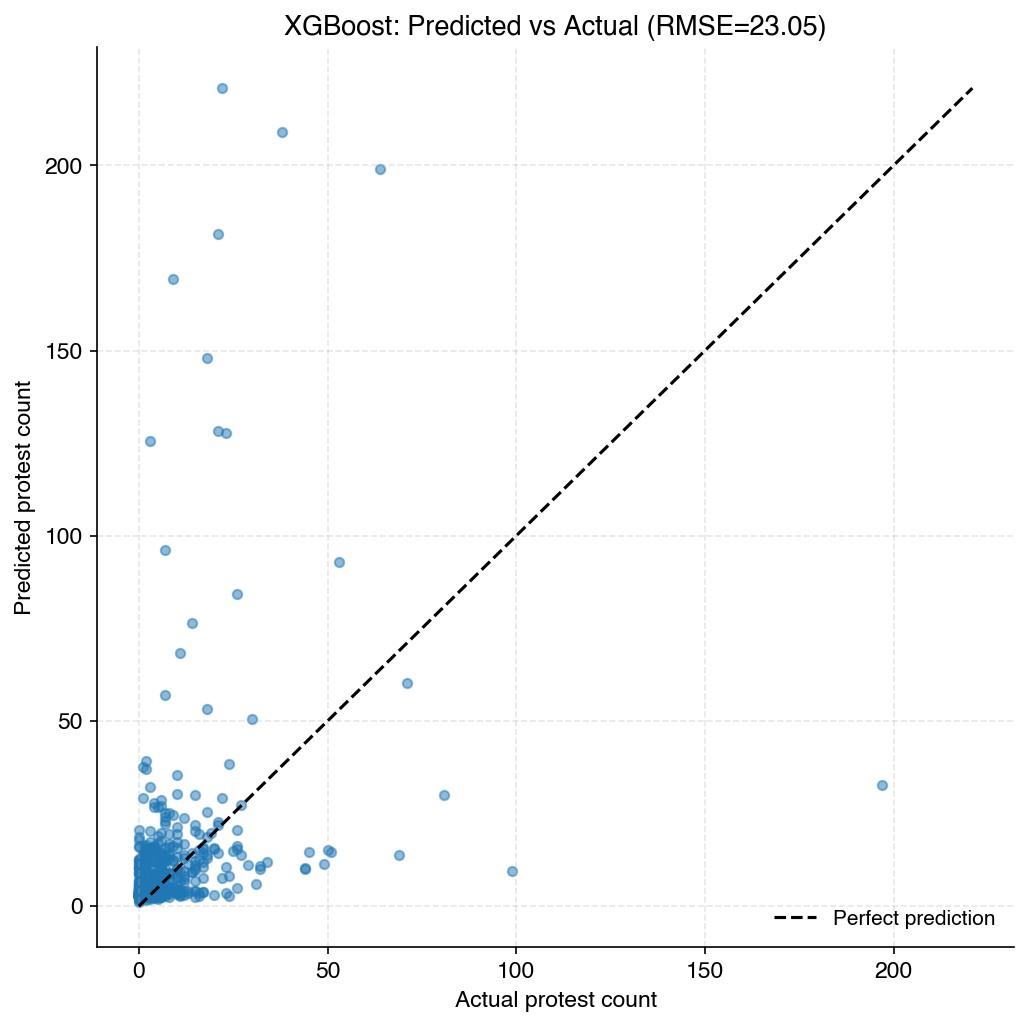
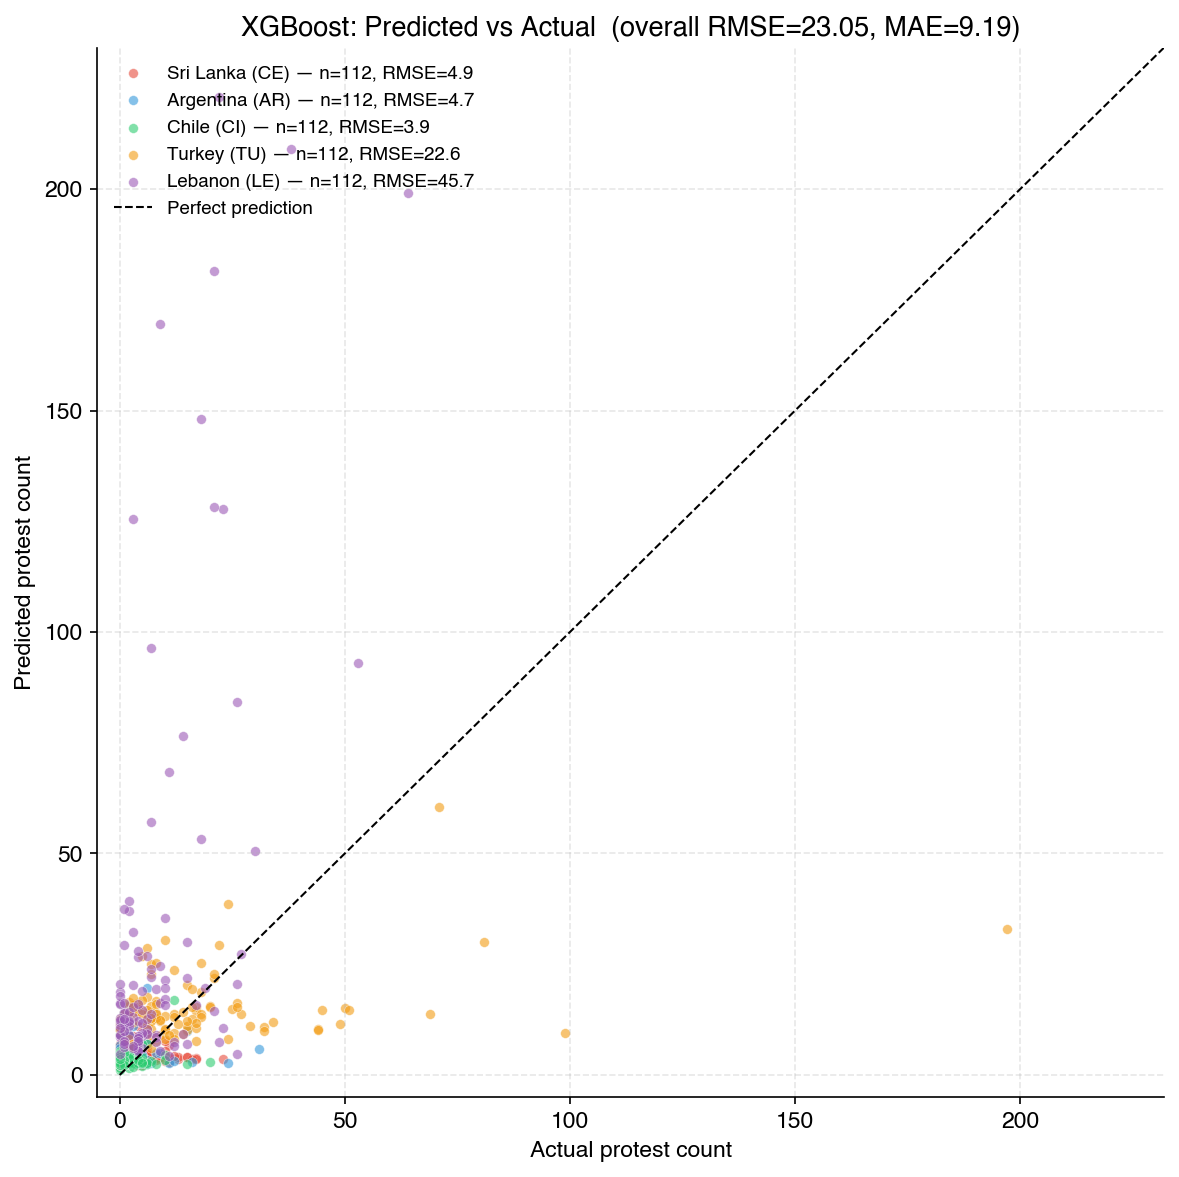
feat: add per-country color coding and detailed annotations to diagnostic figures

diff --git a/scripts/15_make_ml_diagnostic_figures.py b/scripts/15_make_ml_diagnostic_figures.py
@@ -1,15 +1,23 @@
 """Generate Fig 5 (predicted vs actual scatter) and Fig 6 (residual diagnostics).
 
+Both figures are colored by country using COUNTRY_COLORS so the Lebanon
+over-prediction and Turkey under-prediction patterns are visible at a glance.
+
 Run: python scripts/15_make_ml_diagnostic_figures.py
 Output: figures/fig5_pred_vs_actual.png, figures/fig6_residual_plot.png
 """
 from __future__ import annotations
 
 import matplotlib.pyplot as plt
+import numpy as np
 import pandas as pd
 
-from src.constants import OUTPUT_DIR
+from src.constants import COUNTRY_COLORS, COUNTRY_NAMES, FIPS_COUNTRIES, OUTPUT_DIR
 from src.viz_template import apply_style, save_fig
+
+
+def _country_legend_label(code: str, n: int, rmse: float) -> str:
+    return f"{COUNTRY_NAMES[code]} ({code}) — n={n}, RMSE={rmse:.1f}"
 
 
 def main() -> None:
@@ -17,32 +25,94 @@ def main() -> None:
     df = pd.read_parquet(OUTPUT_DIR / "ml_results" / "xgboost_predictions.parquet")
     metrics = pd.read_parquet(OUTPUT_DIR / "ml_results" / "xgboost_metrics.parquet").iloc[0]
 
-    # Fig 5
-    fig, ax = plt.subplots(figsize=(7, 7))
-    ax.scatter(df['actual'], df['predicted'], alpha=0.5, s=20)
-    lim = max(df['actual'].max(), df['predicted'].max())
-    ax.plot([0, lim], [0, lim], 'k--', label='Perfect prediction')
+    # Per-country RMSE for legend annotations
+    per_country: dict[str, tuple[int, float]] = {}
+    for code, g in df.groupby('country'):
+        rmse_c = float(np.sqrt(((g['actual'] - g['predicted']) ** 2).mean()))
+        per_country[code] = (len(g), rmse_c)
+
+    # ---------- Fig 5: Predicted vs Actual, colored by country ----------
+    fig, ax = plt.subplots(figsize=(8, 8))
+    for code in FIPS_COUNTRIES:
+        sub = df[df['country'] == code]
+        if sub.empty:
+            continue
+        n, rmse_c = per_country[code]
+        ax.scatter(
+            sub['actual'],
+            sub['predicted'],
+            color=COUNTRY_COLORS[code],
+            alpha=0.6,
+            s=22,
+            edgecolor='white',
+            linewidth=0.3,
+            label=_country_legend_label(code, n, rmse_c),
+        )
+
+    lim = float(max(df['actual'].max(), df['predicted'].max())) * 1.05
+    ax.plot([0, lim], [0, lim], 'k--', linewidth=1.0, label='Perfect prediction')
+    ax.set_xlim(-5, lim)
+    ax.set_ylim(-5, lim)
     ax.set_xlabel('Actual protest count')
     ax.set_ylabel('Predicted protest count')
-    ax.set_title(f'XGBoost: Predicted vs Actual (RMSE={metrics["rmse"]:.2f})')
-    ax.legend()
+    ax.set_title(
+        f'XGBoost: Predicted vs Actual  (overall RMSE={metrics["rmse"]:.2f}, '
+        f'MAE={metrics["mae"]:.2f})'
+    )
+    ax.legend(loc='upper left', fontsize=9)
     plt.tight_layout()
     save_fig(fig, 'fig5_pred_vs_actual')
     plt.close(fig)
 
-    # Fig 6
-    residuals = df['actual'].values - df['predicted'].values
-    fig, axes = plt.subplots(1, 2, figsize=(14, 5))
-    axes[0].scatter(df['predicted'], residuals, alpha=0.5, s=20)
-    axes[0].axhline(0, color='k', linestyle='--')
-    axes[0].set_xlabel('Predicted')
-    axes[0].set_ylabel('Residual (actual - predicted)')
-    axes[0].set_title('Residuals vs Predicted')
+    # ---------- Fig 6: Residual diagnostics, colored by country ----------
+    df = df.copy()
+    df['residual'] = df['actual'] - df['predicted']
 
-    axes[1].hist(residuals, bins=30, edgecolor='black')
+    fig, axes = plt.subplots(1, 2, figsize=(15, 6))
+
+    # Left: residuals vs predicted, colored by country
+    for code in FIPS_COUNTRIES:
+        sub = df[df['country'] == code]
+        if sub.empty:
+            continue
+        axes[0].scatter(
+            sub['predicted'],
+            sub['residual'],
+            color=COUNTRY_COLORS[code],
+            alpha=0.6,
+            s=22,
+            edgecolor='white',
+            linewidth=0.3,
+            label=f"{COUNTRY_NAMES[code]} ({code})",
+        )
+    axes[0].axhline(0, color='k', linestyle='--', linewidth=1.0)
+    axes[0].set_xlabel('Predicted protest count')
+    axes[0].set_ylabel('Residual (actual - predicted)')
+    axes[0].set_title('Residuals vs Predicted (by country)')
+    axes[0].legend(loc='lower left', fontsize=9)
+
+    # Right: stacked histogram of residuals per country
+    bins = np.linspace(df['residual'].min(), df['residual'].max(), 35)
+    residual_groups = [
+        df.loc[df['country'] == code, 'residual'].values for code in FIPS_COUNTRIES
+    ]
+    colors = [COUNTRY_COLORS[code] for code in FIPS_COUNTRIES]
+    labels = [f"{COUNTRY_NAMES[code]} ({code})" for code in FIPS_COUNTRIES]
+    axes[1].hist(
+        residual_groups,
+        bins=bins,
+        stacked=True,
+        color=colors,
+        label=labels,
+        edgecolor='white',
+        linewidth=0.3,
+    )
+    axes[1].axvline(0, color='k', linestyle='--', linewidth=1.0)
     axes[1].set_xlabel('Residual')
     axes[1].set_ylabel('Frequency')
-    axes[1].set_title('Residual Distribution')
+    axes[1].set_title('Residual distribution (stacked by country)')
+    axes[1].legend(loc='upper right', fontsize=9)
+
     plt.tight_layout()
     save_fig(fig, 'fig6_residual_plot')
     plt.close(fig)

diff --git a/docs/member_F.md b/docs/member_F.md
@@ -157,7 +157,7 @@ pandoc report/final.md -o report/final.pdf \
 ## 交付檢查清單
 
 - [x] **W1 Day 3**:repo 結構 + `src/` + `tests/` + `scripts/` + `report/` 骨架 + `requirements.txt` + `.gitignore` 全部 push 上 main
-- [ ] **W1 Day 7**:`figures/fig1_tone_vs_protest_per_country.png` + `figures/fig2_tone_goldstein_heatmap.png`
-- [ ] **W2 中**:`figures/fig3_umap_eventmix.png`
+- [x] **W1 Day 7**:`figures/fig1_tone_vs_protest_per_country.png` + `figures/fig2_tone_goldstein_heatmap.png`
+- [x] **W2 中**:`figures/fig3_umap_eventmix.png`
 - [ ] **W2 末**:Fig 4-7 風格統一 review + 各章節骨架已被填寫中
 - [ ] **W3 末**:Fig 8 整合 + `report/final.pdf` + 簡報投影片
